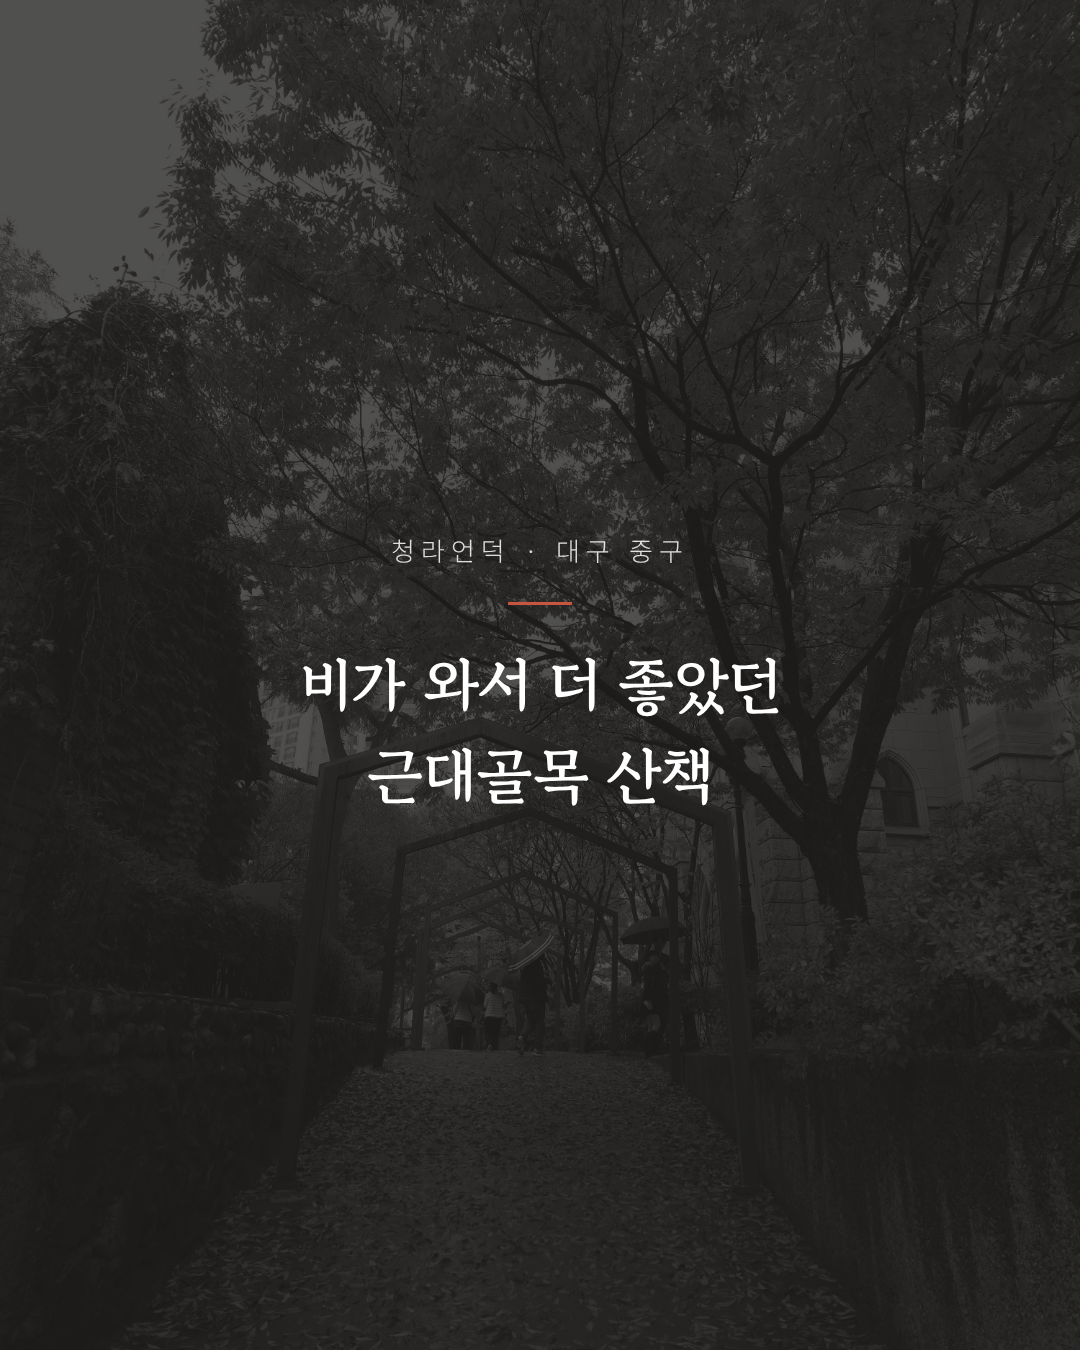
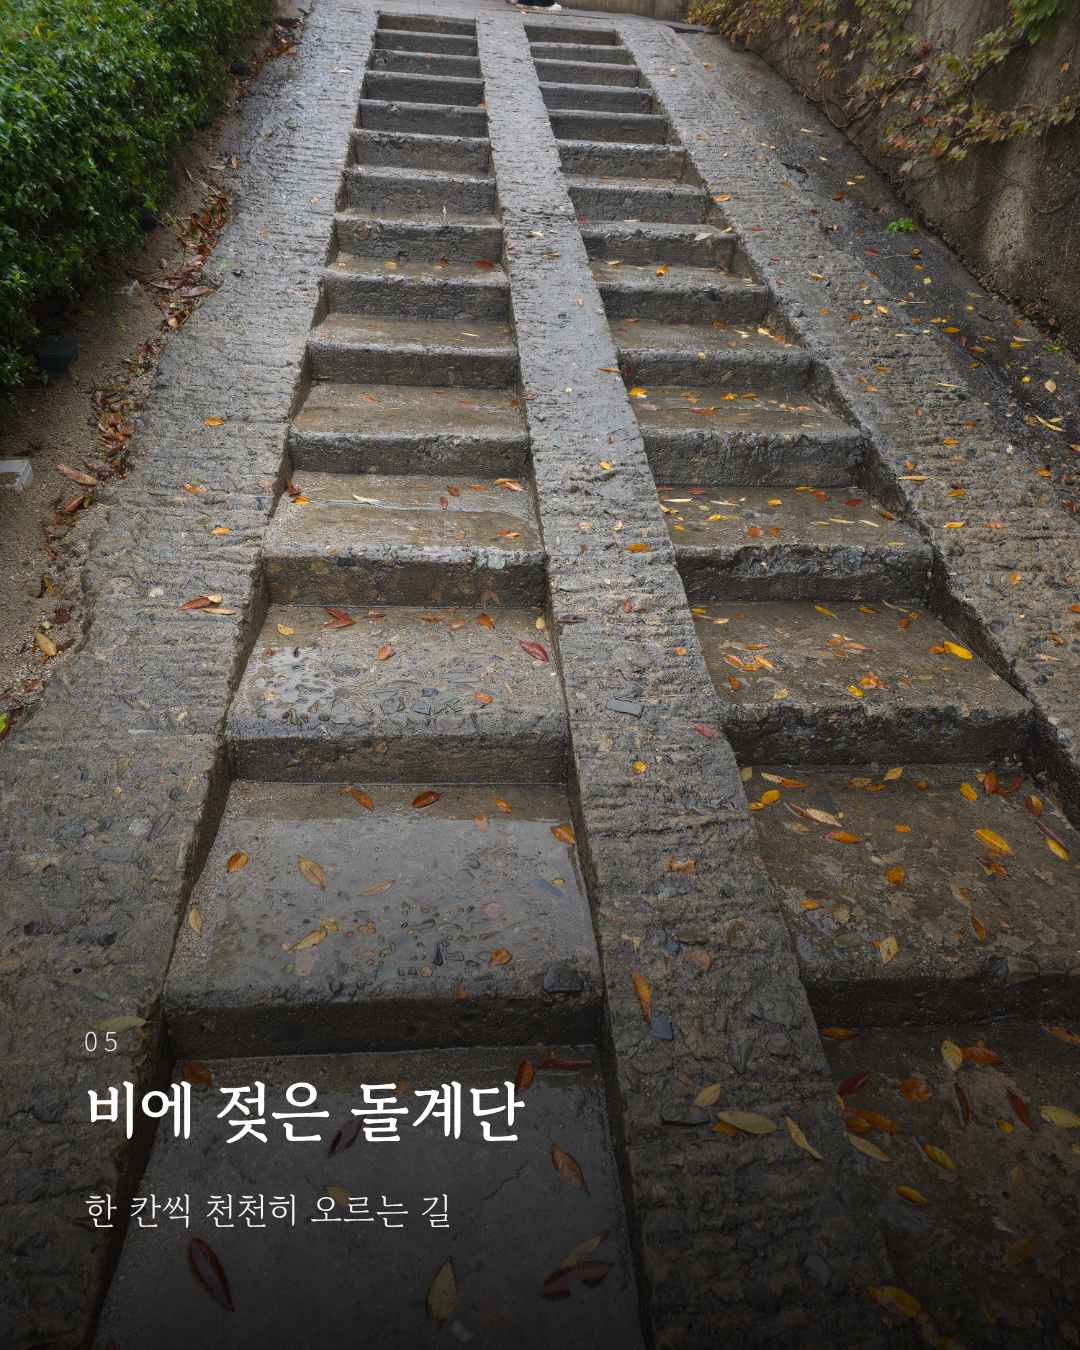
Cheongna: add stairs card after 3.1 road
Claude-Session: https://claude.ai/code/session_01DMuKcpM29d5FHQdT8b35KP

diff --git a/cheongna/cards.html b/cheongna/cards.html
@@ -65,6 +65,16 @@ p{font-size:36px;line-height:1.7;margin-top:28px;opacity:.95}
 </div>
 
 <div class="card" id="c6">
+  <div class="bg" style="background-image:url(stairs.jpg);background-position:center 40%"></div>
+  <div class="shade" style="background:linear-gradient(180deg,rgba(0,0,0,0) 45%,rgba(0,0,0,.8) 100%)"></div>
+  <div class="txt" style="bottom:110px">
+    <div class="num">05</div>
+    <h2>비에 젖은 돌계단</h2>
+    <p>한 칸씩 천천히 오르는 길</p>
+  </div>
+</div>
+
+<div class="card" id="c7">
   <div class="bg" style="background-image:url(path.jpg);opacity:.22;filter:grayscale(1)"></div>
   <div class="txt" style="top:50%;transform:translateY(-50%);text-align:center">
     <div class="num">청라언덕 · 대구 중구</div>
